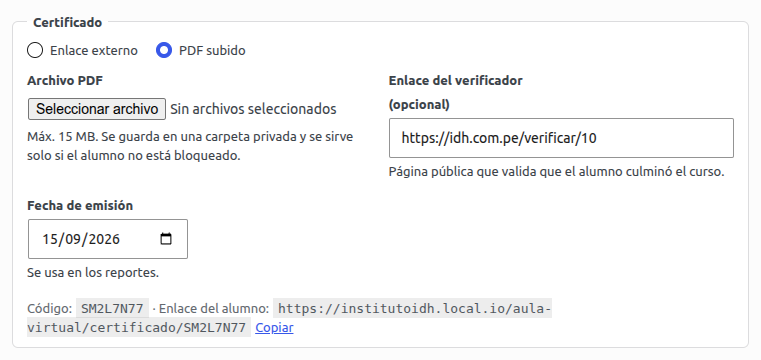
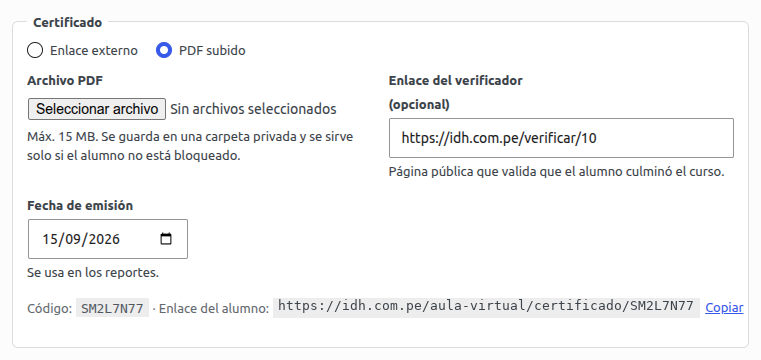
docs(aula): manual con las direcciones de producción
- Nueva sección «Direcciones del aula virtual» (ingreso, curso, enlace del
  certificado, salir) con las URLs de idh.com.pe.
- Acceso al admin: login privado (el sitio oculta /wp-login.php).
- Capturas 07 y 10: el enlace del alumno ya muestra idh.com.pe en vez del
  dominio local.

Changed region(s): [[0.0302, 0.825, 0.9974, 0.9472]]

diff --git a/plugins/idh-aula/docs/manual/MANUAL.md b/plugins/idh-aula/docs/manual/MANUAL.md
@@ -19,8 +19,8 @@ Este manual es para el **personal de IDH** que administra a los alumnos. Explica
 
 ## Cómo entrar
 
-1. Ingresa al panel de WordPress del sitio (`/wp-admin`) con tu usuario de **administrador**.
-2. En el menú lateral, abre **Aula Virtual**.
+1. Inicia sesión en WordPress con tu usuario de **administrador**, desde la dirección de acceso privada que usa IDH. Por seguridad, el sitio no usa la dirección estándar `/wp-login.php`.
+2. Ya dentro del panel (`https://idh.com.pe/wp-admin`), abre **Aula Virtual** en el menú lateral.
 
 Las opciones que usarás en este manual son:
 
@@ -30,6 +30,17 @@ Las opciones que usarás en este manual son:
 | **Matrículas** | Ver todas las matrículas, matricular alumnos y cambiar pagos o accesos. |
 | **Importar alumnos** | Registrar muchos alumnos a la vez desde un archivo CSV (Excel). |
 | **Ajustes** | Configurar el número de WhatsApp de IDH al que escriben los alumnos. |
+
+## Direcciones del aula virtual
+
+| Dirección | Para qué sirve |
+|---|---|
+| **`https://idh.com.pe/aula-virtual`** | Ingreso de los alumnos. **Es el enlace que se comparte** con ellos, por WhatsApp o en las landings. También se abre con el botón **Ver aula virtual ↗** del *Panel y reportes*. |
+| `https://idh.com.pe/aula-virtual/curso/…` | Detalle de cada curso. El alumno llega aquí desde *Mis cursos*. No hace falta compartirlo: sin sesión, lleva al ingreso. |
+| `https://idh.com.pe/aula-virtual/certificado/CÓDIGO` | **Enlace del alumno** a su certificado. Aparece en la matrícula y se puede copiar. Si el certificado es un PDF, lo muestra; si es un enlace externo (por ejemplo, qr.io), redirige a esa página. Solo funciona si el alumno está activo y la matrícula está pagada y sin candado. |
+| `https://idh.com.pe/aula-virtual/salir` | Cierra la sesión del alumno (botón **Salir**). |
+
+> Los archivos PDF de los certificados se guardan en una carpeta privada del servidor: no tienen una dirección pública propia y solo se entregan a través del enlace del alumno.
 
 ## Conceptos clave
 
@@ -245,7 +256,7 @@ En los dos modos:
 - **Enlace del verificador** (opcional): la página pública que valida que el alumno culminó el curso.
 - **Fecha de emisión**: se usa en los **reportes** de certificados emitidos. Pon la fecha real de emisión. Es un dato **interno**: el alumno no la ve en el aula virtual.
 
-Al guardar, el sistema asigna al certificado un **código** y un **enlace del alumno**, que puedes copiar con **Copiar**.
+Al guardar, el sistema asigna al certificado un **código** y un **enlace del alumno** (`https://idh.com.pe/aula-virtual/certificado/CÓDIGO`), que puedes copiar con **Copiar** y enviar al alumno. El alumno también encuentra su certificado dentro del curso, en el aula virtual.
 
 Para borrar el certificado, usa **Eliminar certificado**.
 
@@ -394,7 +405,7 @@ Esta sección sirve para orientar a los alumnos cuando escriben con dudas.
 
 ## Ingreso
 
-El alumno entra a **`/aula-virtual`** (por ejemplo, `https://idh.com.pe/aula-virtual`) y escribe su **DNI** y su **fecha de nacimiento**.
+El alumno entra a **`https://idh.com.pe/aula-virtual`** y escribe su **DNI** y su **fecha de nacimiento**.
 
 ![Ingreso al aula virtual](img/22-portal-login.png)
 
